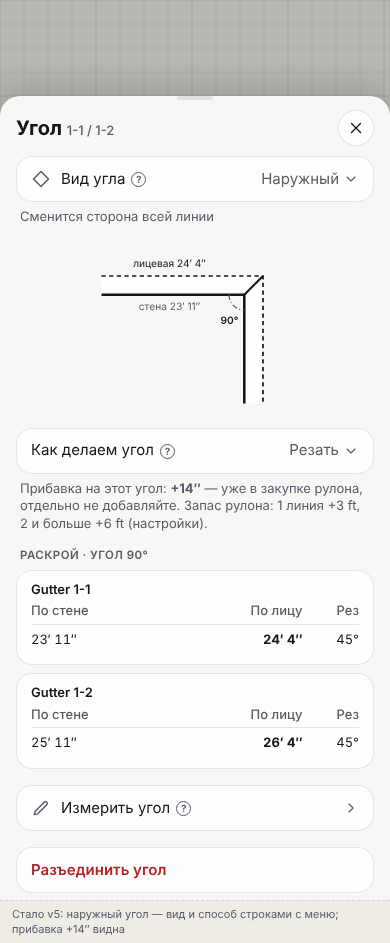
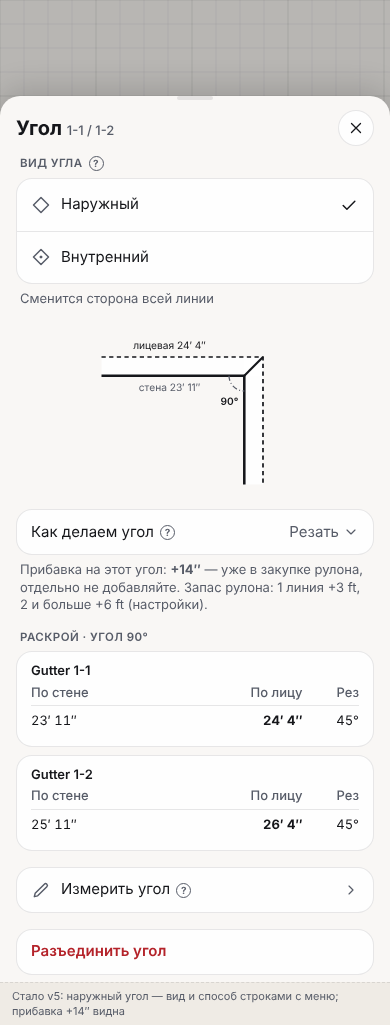
docs(gutters): прототип окон v5 — дроби оставлены клавишами (FracKeys), вид угла — строки-варианты (черновик спеки 56)
Claude-Session: https://claude.ai/code/session_015CqH67No4oEDimVtsTgsjd

diff --git a/docs/prototypes/gutters-windows/index.html b/docs/prototypes/gutters-windows/index.html
@@ -172,7 +172,7 @@ if(F==='ds-bottom'){
 if(F==='run'){
  H=sheet('Gutter','1-1 · 21′ 8½″',`
  <div class="grp">${sel('Профиль'+qm,'K-Style','xsK')}${sel('Размер'+qm,'5″')}${sel('Этаж'+qm,'1')}</div><div class="note">Меню: K-Style · Half Round · Box · Fascia · Euro — значок разреза слева в строке.</div>
- <div><div class="lbl">Длина${qm}</div><div style="display:flex;gap:8px;align-items:center">${fin('21','ft')}${fin('8','in')}${dd('½')}<span class="sp"></span><span class="b36">Шкала</span></div><div class="note">На рисунке 21′ 4″, введено 21′ 8½″ — в расчёт идёт введённое.</div></div>
+ <div><div class="lbl">Длина${qm}</div><div style="display:flex;gap:8px;align-items:center">${fin('21','ft')}${fin('8','in')}<span class="sp"></span><span class="b36">Шкала</span></div>${frac('½')}<div class="note">На рисунке 21′ 4″, введено 21′ 8½″ — в расчёт идёт введённое.</div></div>
  <div class="grp">${row('Цвет','',{ctrl:`<span class="v"><i style="width:18px;height:18px;border-radius:9px;background:#D9DACF;border:1px solid var(--bd);display:inline-block"></i>High Gloss White${ic('cd',16)}</span>`})}${row('Материал'+qm,'Алюминий · .027')}</div>
  <div><div class="lbl">Защита от листьев (gutter guard)${qm}</div><div class="grp">${row('Вид','Микросетка')}${row('Сколько закрыть','Весь gutter · 21′ 8½″')}</div><div class="note">Список: Нет · Микросетка · Перфорированный · На защёлке · Откидная · Сетка на раме · Козырёк. Пены и ёршиков нет.</div></div>
  <div><div class="lbl">Демонтаж${qm}</div><div class="grp">${row('Снять старый gutter','',{ctrl:'<span class="tog on"></span>'})}${row('Была защита — снять','',{ctrl:'<span class="tog"></span>'})}</div></div>
@@ -187,7 +187,7 @@ if(F==='corner'||F==='corner-in'){
  const cut=(n,w,f)=>`<div class="grp" style="padding:10px 14px"><div style="font-weight:600;font-size:13px">Gutter ${n}</div><table class="cut"><tr><th>По стене</th><th>По лицу</th><th>Рез</th></tr><tr><td style="text-align:left">${w}</td><td><b>${f}</b></td><td>45°</td></tr></table></div>`;
  const segI=(on)=>`<div class="seg">${[['cornerOut','Наружный'],['cornerIn','Внутренний']].map(([i,t],j)=>`<span class="${j===on?'on':''}" style="gap:6px">${ic(i,16)}${t}</span>`).join('')}</div>`;
  H=sheet('Угол','1-1 / 1-2',`
- <div><div class="grp">${sel('Вид угла'+qm,inner?'Внутренний':'Наружный',inner?'cornerIn':'cornerOut')}</div><div class="note">Сменится сторона всей линии</div></div>
+ <div><div class="lbl">Вид угла${qm}</div><div class="grp">${[['cornerOut','Наружный',!inner],['cornerIn','Внутренний',inner]].map(([i,t,on])=>`<div class="opt">${ic(i,20,k('mut'))}<div class="stack"><span>${t}</span></div>${on?ic('check',20,k('ink')):''}</div>`).join('')}</div><div class="note">Сменится сторона всей линии</div></div>
  ${inner?skIn:sk}
  <div><div class="grp">${sel('Как делаем угол'+qm,'Резать')}</div><div class="note">Прибавка на этот угол: <b>${inner?'+7″':'+14″'}</b> — уже в закупке рулона, отдельно не добавляйте. Запас рулона: 1 линия +3 ft, 2 и больше +6 ft (настройки).</div></div>
  <div><div class="lbl">Раскрой · угол 90°</div><div style="display:flex;flex-direction:column;gap:8px">${inner?cut('1-1','23′ 11″','23′ 6″')+cut('1-2','25′ 11″','25′ 6″'):cut('1-1','23′ 11″','24′ 4″')+cut('1-2','25′ 11″','26′ 4″')}</div></div>

diff --git a/docs/specs/33-gutters-windows.md b/docs/specs/33-gutters-windows.md
@@ -213,10 +213,10 @@
   - «Размер» downspout и gutter, «Этаж»;
   - «Где на gutter» → «Отсчёт места»;
   - «Гнём по месту / Готовые» → «Elbows»;
-  - «Наружный / Внутренний» → «Вид угла»;
   - «Как делаем угол»;
   - «Стена» в «Редких деталях»;
-- ряд дробей ⅛…⅞ → меню у поля дюймов;
+- ряд дробей ⅛…⅞ оставлен: в черновике спеки 56 это разрешённое исключение, клавиши `FracKeys` (как цифровая клавиатура, это не выбор значения);
+- «Вид угла» в шторке угла — строки-варианты (`OptionRow`): значок слева, галочка `ink` справа. В AttrPanel это строка с меню (`SelectField`);
 - сегмент «Лиды · Клиенты · Черновик» в «Привязать» оставлен: он переключает вид шторки;
 - «?» стоит справа от своей надписи (#1843, #1853).
 Окончательно — по таблице спеки 56: если она решит иначе, прототип правится по ней. Без умолчаний для размера, цвета и формы (основатель 16.11, движок и холст у №22) — в прототипе показано уже выбранное значение.
